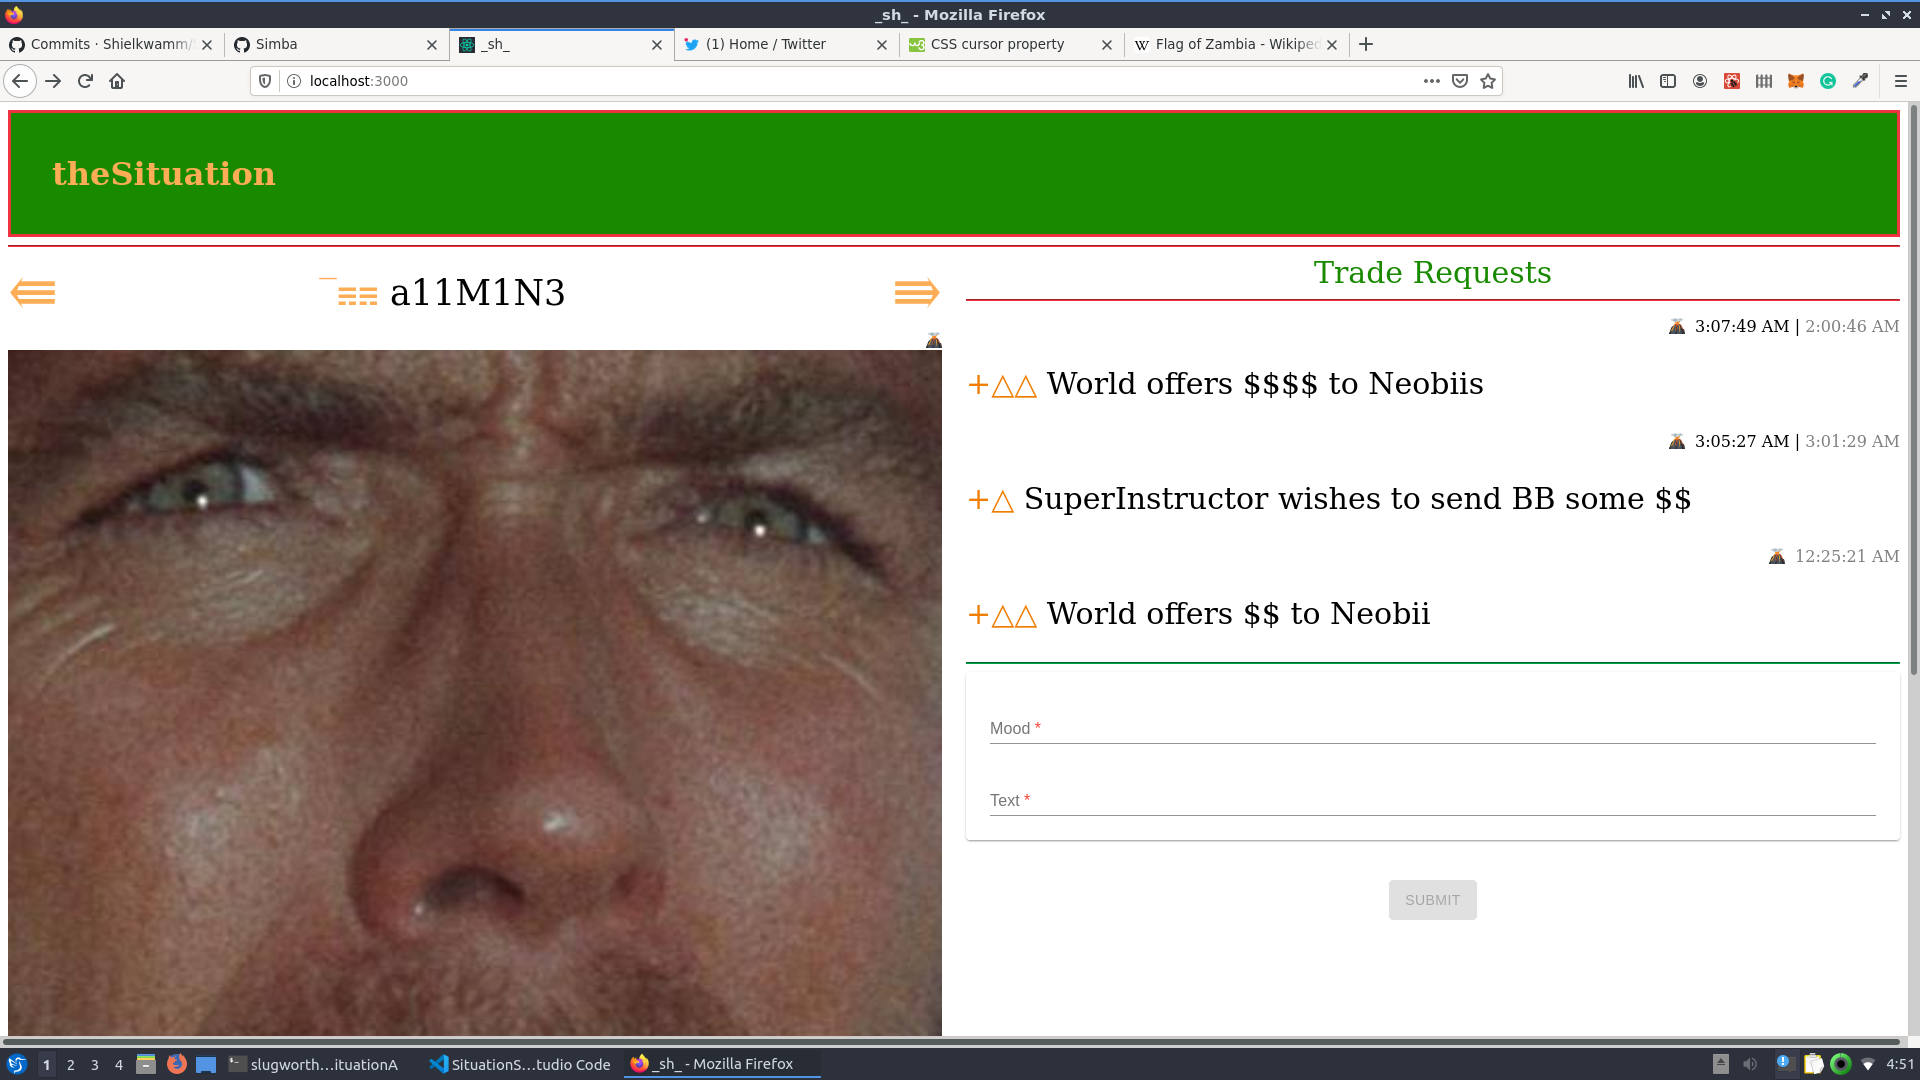
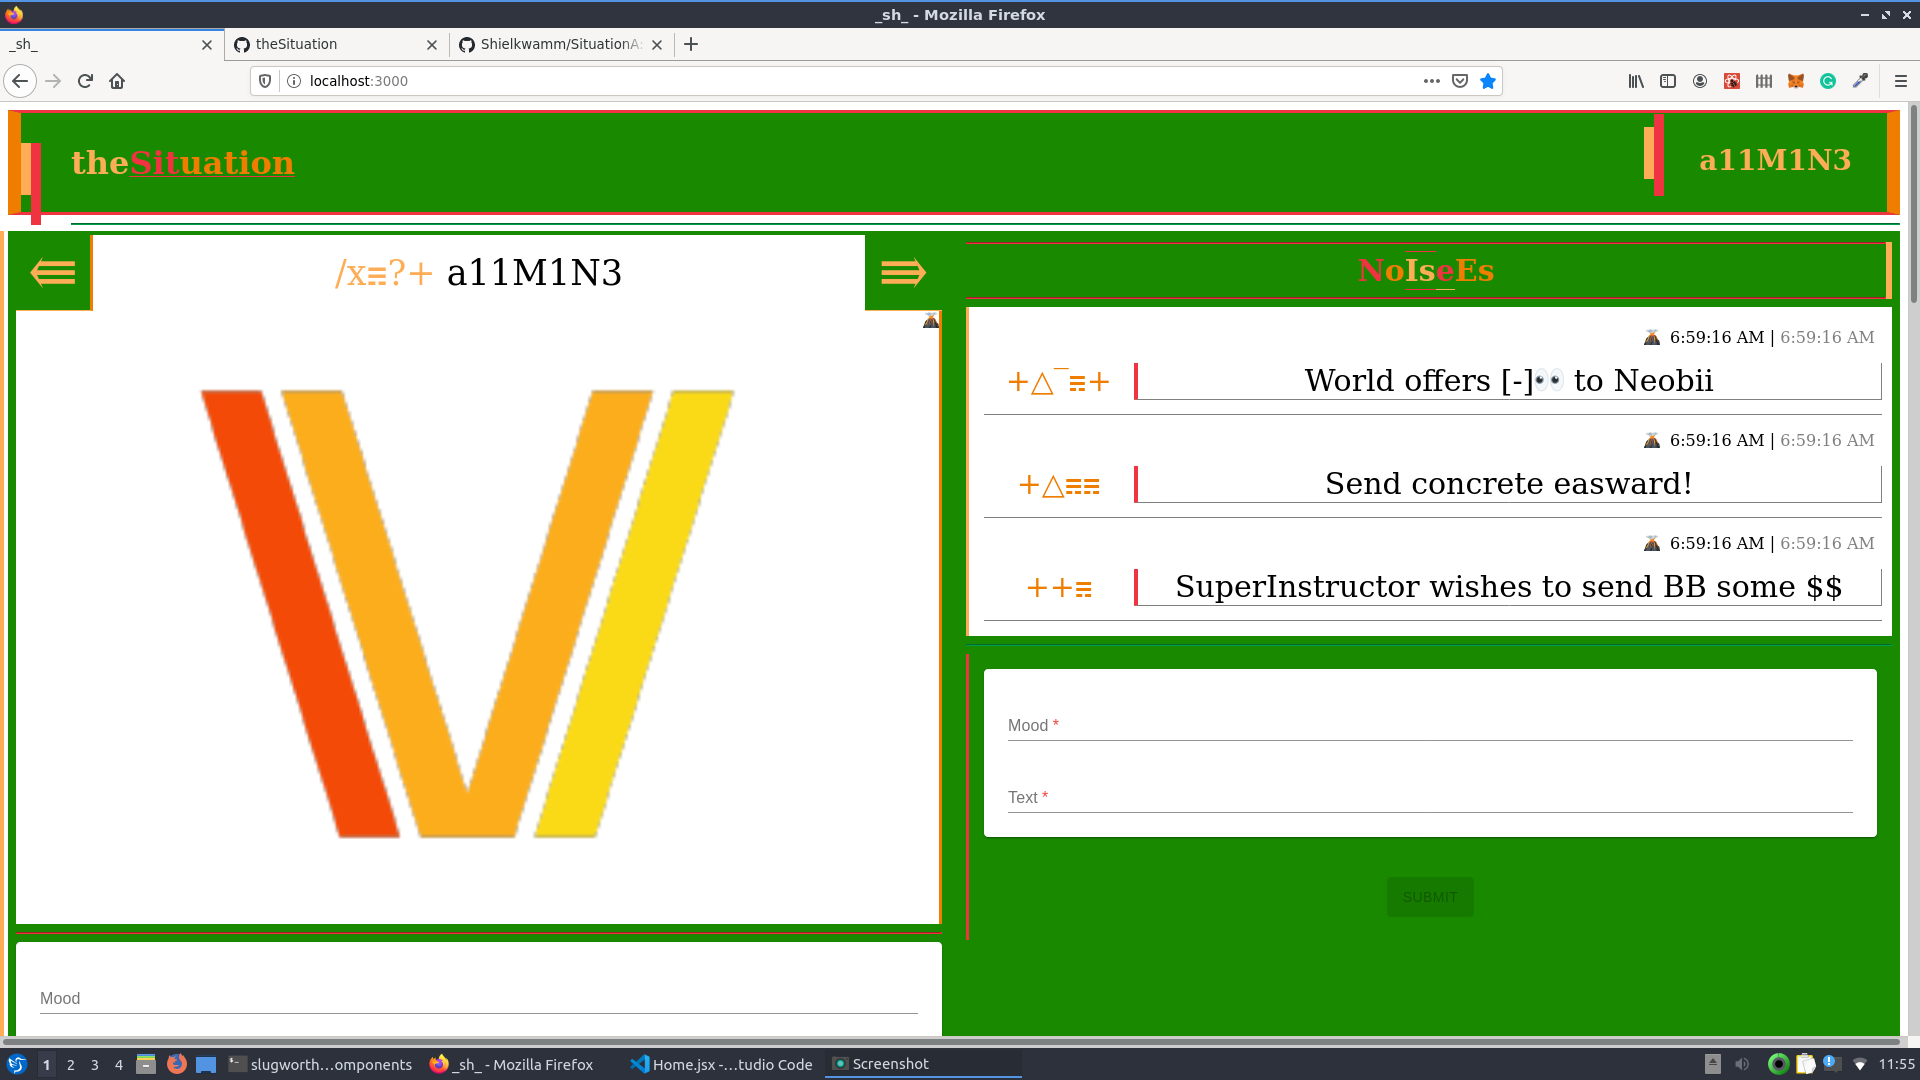
▥▣▣▤▥▣▢▣▢▣▤▥▣▢▣▢▣▤▥▣▤▥

diff --git a/packages/situation/lib/components/Situation.jsx b/packages/situation/lib/components/Situation.jsx
@@ -5,18 +5,18 @@ import Grid from '@material-ui/core/Grid';
 const Situation = ({ situation }) => (
   <React.Fragment>
     <Grid container spacing={3} style={{borderBottom: "12px solid rgb(239, 51, 64)"}}>
-      <Grid item xs={12} sm={6} style={{borderLeft: "8px solid rgb(252, 173, 86)"}}>
+      <Grid item xs={12} sm={12} md={6} style={{borderLeft: "8px solid rgb(252, 173, 86)"}}>
         <Components.SituationStates situation={situation} situationStates={situation.situationStates}/>
         <hr style={{color: "#EF3340"}}></hr>
         <Components.SmartForm collectionName="SituationStates" prefilledProps={{situationId: situation._id}} fields={["mood", "moodboardUrl"]}/>
       </Grid>
-      <Grid item xs={12} sm={6} style={{textAlign: "right", paddingTop: "3px", paddingRight: "20px"}}>
+      <Grid item xs={12} sm={12} md={6} style={{textAlign: "right", paddingTop: "3px", paddingRight: "20px"}}>
         <div style={{borderRight: "solid 6px rgb(252, 173, 86)"}}>
           <hr style={{color: "#EF3340"}}></hr>
-          <div style={{textAlign: "center", color: "rgb(252, 173, 86)", fontSize: "30px"}}>Trade Requests</div>
+          <div style={{textAlign: "center", color: "rgb(239, 125, 0)", fontSize: "30px", fontWeight: "bold"}}><span style={{color: "rgb(239, 51, 64)"}}>N</span>o<span style={{borderBottom: "solid 1px rgb(239, 51, 64)", color: "rgb(252, 173, 86)", borderTop: "solid 1px rgb(239, 51, 64)"}}>Is</span><span style={{color: "rgb(239, 51, 64)", borderBottom: "solid 1px rgb(252, 173, 86)"}}>e</span><span style={{borderTop: "none"}}>E</span>s</div>
           <hr style={{color: "#EF3340", backgroundColor: "#FFF"}}></hr>
         </div>
-        <div style={{backgroundColor: "#FFF", borderLeft: "solid 3px rgb(252, 173, 86)", padding: "5px 10px 37px 15px"}}>
+        <div style={{backgroundColor: "#FFF", borderLeft: "solid 3px rgb(252, 173, 86)", padding: "5px 10px 15px 15px"}}>
           <Components.SituationTradeRequests situation={situation} tradeRequests={situation.tradeRequests}/>
         </div>
         <hr style={{color: "#009E49"}}></hr>

diff --git a/packages/situation/lib/components/SituationTradeRequest.jsx b/packages/situation/lib/components/SituationTradeRequest.jsx
@@ -1,6 +1,7 @@
 import React from 'react';
 import { Components, registerComponent } from 'meteor/vulcan:core';
 import { useState } from 'react';
+import Grid from '@material-ui/core/Grid';
 
 const SituationTradeRequest = ({ situation, tradeRequest }) => {
   const [isEditing, setIsEditing] = useState(false);
@@ -13,8 +14,11 @@ const SituationTradeRequest = ({ situation, tradeRequest }) => {
         </React.Fragment>
       ): (
         <React.Fragment>
-          <p><a onClick={e => setIsEditing(true)}><span style={{ paddingRight: "20px", cursor: "crosshair", padding: "5px", borderRadius: "2px" }}>🌋</span></a> {tradeRequest.updatedAt && new Date(tradeRequest.updatedAt).toLocaleTimeString() + " | "} <span style={{color: "gray"}}>{new Date(tradeRequest.createdAt).toLocaleTimeString()}</span></p>
-          <p style={{textAlign: "left", fontSize: "30px"}}><span style={{color: "#ef7d00ff", cursor: "cell"}}>{tradeRequest.mood}</span> {tradeRequest.text}</p>
+          <p><a onClick={e => setIsEditing(true)}><span style={{ paddingRight: "20px", cursor: "crosshair", padding: "5px", borderRadius: "2px" }}>🌋</span></a> {tradeRequest.updatedAt && new Date(tradeRequest.updatedAt).toLocaleTimeString() + " | "} <span style={{color: "gray", paddingRight: "7px"}}>{new Date(tradeRequest.createdAt).toLocaleTimeString()}</span></p>
+          <Grid container style={{textAlign: "center", borderBottom: "1px solid gray", paddingBottom: "14px" }}>
+            <Grid item xs={3} sm={2} style={{color: "#ef7d00ff", cursor: "cell", fontSize: "30px"}}>{tradeRequest.mood}</Grid> 
+            <Grid item xs={9} sm={10} style={{fontSize:"30px", borderRight: "1px solid gray", borderBottom: "1px solid gray", borderLeft: "4px solid rgb(239, 51, 64)"}}>{tradeRequest.text}</Grid>
+          </Grid>
         </React.Fragment>
       )}
     </React.Fragment>

diff --git a/packages/ui-situation/lib/components/Home.jsx b/packages/ui-situation/lib/components/Home.jsx
@@ -18,7 +18,15 @@ registerComponent({ name: 'Home', component: Home, hocs: [ withCurrentUser ]});
 
 const SituationHeader = () => (
   <React.Fragment>
-    <h1 style={{margin: "0", padding: "41px", border: "3px solid #EF3340", backgroundColor: "#198a00ff", color: "#FCAD56"}}>theSituation</h1>
+    <h1 style={{margin: "0", padding: "30px 0px", border: "3px solid #EF3340", backgroundColor: "#198a00ff", color: "#FCAD56", borderRight: "13px solid rgb(239, 125, 0)", borderLeft: "13px solid rgb(239, 125, 0)"}}>
+      <span style={{float: "left", height: "52px", width: "10px", backgroundColor: "rgb(252, 173, 86)"}}></span>
+      <span style={{float: "left", height: "82px", width: "10px", backgroundColor: "rgb(239, 51, 64)", marginRight: "30px"}}></span>
+      the
+      <span style={{color: "rgb(239, 125, 0)", textDecoration: "underline", textDecorationColor: "rgb(239, 51, 64)"}}><span style={{color: "rgb(239, 51, 64)", textDecorationColor: "rgb(252, 173, 86)"}}>Sit</span>uation</span>
+      <span style={{color: "rgb(239, 125, 0)", lineHeight: "34px", fontSize: "28px", padding: "0 35px", color: "rgb(252, 173, 86)", float: "right"}}>a11M1N3</span>
+      <span style={{float: "right", height: "82px", width: "10px", marginTop: "-29px", backgroundColor: "rgb(239, 51, 64)"}}></span>
+      <span style={{float: "right", height: "52px", width: "10px", marginTop: "-16px", backgroundColor: "rgb(252, 173, 86)"}}></span>
+    </h1>
     <hr style={{color: "#009E49"}}></hr>
     <hr style={{color: "rgb(252, 173, 86)"}}></hr>
   </React.Fragment>
